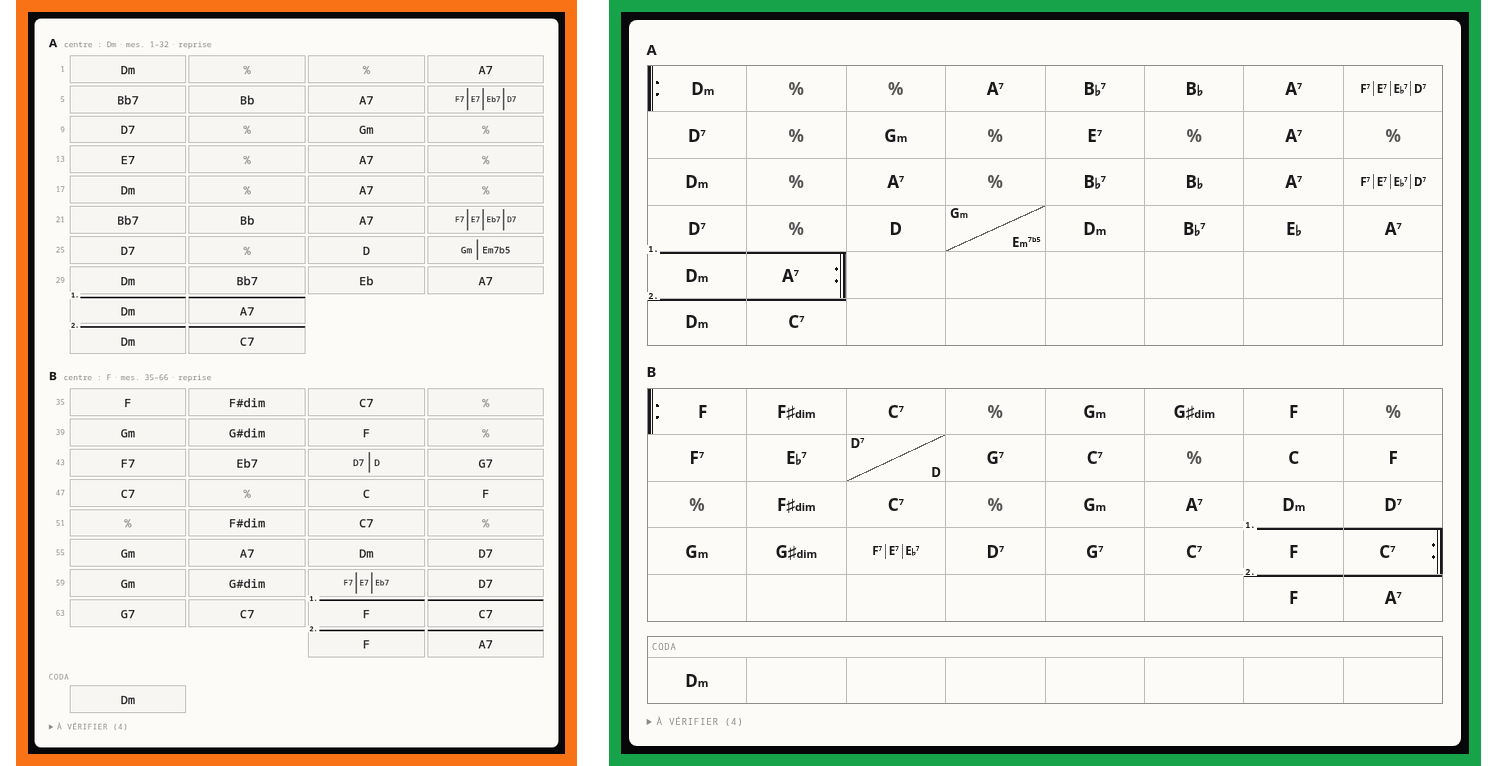
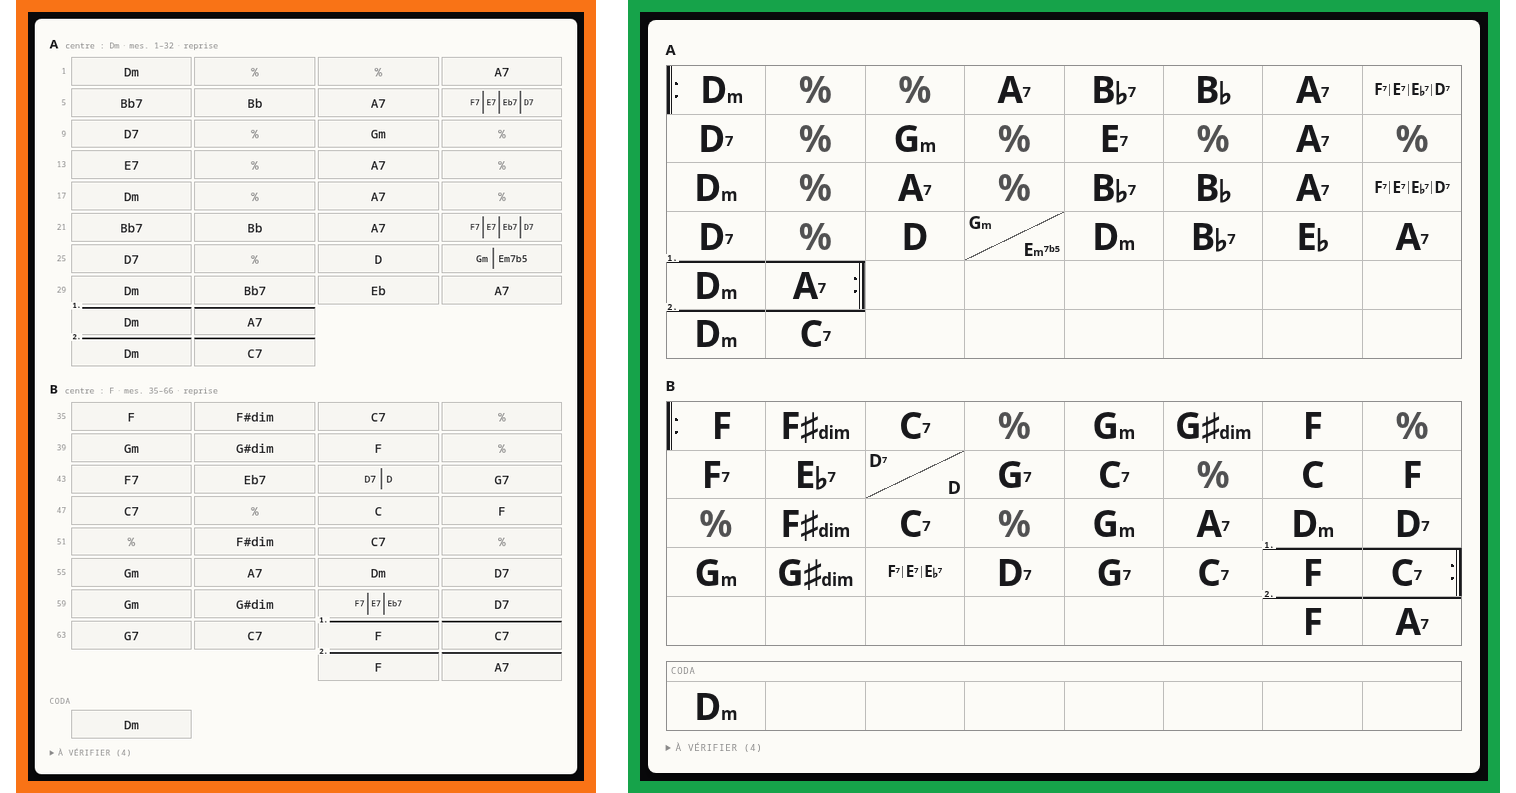
Agrandit les chiffrages jusqu'à remplir les cases
Les accords occupaient à peine la moitié de leur case. La fondamentale
passe de 1,16 à 2,5 em, soit plus du double, et la grille reste malgré
tout plus courte qu'avant la refonte (753 px contre 891 sur Benzinho).

Le corps est désormais fixé par catégorie de case plutôt que par un seul
`font-size` hérité, car chacune bute sur une contrainte différente :

- accord seul : c'est la largeur qui borne, et seulement pour les
  chiffrages les plus longs (« D♯dim »). La qualité passe de 0,59 à 0,46
  fois la fondamentale — proportion de la grille manuscrite, qui rend au
  passage la largeur nécessaire pour grossir la lettre ;
- mesure partagée : c'est le triangle qui borne. Les deux chiffrages
  gagnent tout de même 35 %, mais restent forcément plus contenus — d'où
  un corps propre, et non plus seulement celui de la case, pour que
  l'accord seul puisse grandir sans les entraîner ;
- trois ou quatre accords sur une mesure : la case en gardait près des
  trois quarts de la hauteur inutilisés, la largeur seule bornant. +31 %.

Deux défauts mis au jour en vérifiant les 19 grilles plutôt que deux :

- `.ch:last-child` ne désignait pas le second accord d'une mesure
  partagée dès que la case portait un libellé de fin (« 1. ») ou un
  masque : l'accord perdait son coin et traversait la coupe. Le rang dans
  la fratrie est le seul repère stable ;
- en plein écran, le zoom grossissait le texte sans grossir la carte :
[…]

diff --git a/web/src/style.css b/web/src/style.css
@@ -132,9 +132,14 @@ body {
   container-type: inline-size;
 }
 
+/* En plein écran, le zoom agrandit la carte autant que le texte : sans cela,
+   les cases gardaient leur largeur pendant que les chiffrages grossissaient, et
+   les plus longs finissaient par en déborder. La carte s'arrête à la largeur
+   disponible, où la requête de conteneur prend le relais en repliant les
+   colonnes. */
 .fp-slot .grille-surface {
   font-size: calc(0.92rem * var(--fp-zoom, 1));
-  max-width: min(52rem, 100%);
+  max-width: min(calc(52rem * var(--fp-zoom, 1)), 100%);
 }
 @media (max-width: 400px) {
   .grille-surface {
@@ -193,7 +198,7 @@ body {
    et c'est lui qui fait le filet. */
 .chord-cell {
   position: relative;
-  min-height: 3.1em;
+  min-height: 3.25em;
   display: flex;
   align-items: center;
   justify-content: center;
@@ -213,20 +218,40 @@ body {
    qualité la suit en petit sur la ligne, le chiffre monte en exposant. C'est
    ce qui rend un accord lisible d'un coup d'œil sans qu'il prenne la place de
    deux — d'où l'abandon de la fonte à chasse fixe des cases, qui donnait au
-   `m` la même avance qu'au `B` et posait les exposants de travers. */
+   `m` la même avance qu'au `B` et posait les exposants de travers.
+
+   La fondamentale est poussée aussi loin que la case le permet : c'est elle
+   qu'on lit en jouant, souvent de loin et d'un seul coup d'œil, et la place
+   perdue autour ne sert à rien. Les corps réduits de la qualité et de
+   l'exposant suivent, pour que l'accord reste un seul mot. */
 .chord-cell .rt {
   font-style: normal;
-  font-size: 1.16em;
+  font-size: 2.5em;
+  letter-spacing: -0.01em;
 }
 .chord-cell .qa {
   font-style: normal;
-  font-size: 0.74em;
+  font-size: 1.15em;
 }
 .chord-cell .sp {
   font-style: normal;
-  font-size: 0.62em;
+  font-size: 1em;
   vertical-align: super;
   line-height: 0;
+}
+
+/* Une mesure partagée porte deux chiffrages dans la hauteur d'une seule case,
+   chacun tenant dans son triangle : le corps y est nécessairement plus
+   contenu. Il est fixé ici, et non par le seul `font-size` de la case, pour
+   que l'accord seul puisse grandir sans l'entraîner. */
+.chord-cell.multi .rt {
+  font-size: 1.85em;
+}
+.chord-cell.multi .qa {
+  font-size: 1.1em;
+}
+.chord-cell.multi .sp {
+  font-size: 0.95em;
 }
 
 /* Mesure partagée entre deux accords : la case est coupée en diagonale, le
@@ -243,8 +268,8 @@ body {
      des deux chiffrages et les coins n'iraient nulle part. */
   grid-template-columns: 1fr;
   grid-template-rows: 1fr 1fr;
-  font-size: 0.78em;
-  min-height: 3.97em; /* 0.78 × 3.97 ≈ les 3.1em d'une case ordinaire */
+  font-size: 0.66em;
+  min-height: 4.92em; /* 0.66 × 4.92 ≈ les 3.25em d'une case ordinaire */
   padding: 0.15em 0.35em;
   background-image: linear-gradient(
     to bottom right,
@@ -254,10 +279,13 @@ body {
     transparent calc(50% + 0.6px)
   );
 }
-.chord-cell.multi:not(.multi-3) .ch:first-child {
+/* Repérés par leur rang et non par `:first-child` / `:last-child` : la case
+   peut encore recevoir un libellé de fin (« 1. ») et un masque, qui prendraient
+   la place de dernier enfant et décrocheraient le second accord de son coin. */
+.chord-cell.multi:not(.multi-3) .ch:nth-child(1) {
   place-self: start start;
 }
-.chord-cell.multi:not(.multi-3) .ch:last-child {
+.chord-cell.multi:not(.multi-3) .ch:nth-child(2) {
   place-self: end end;
 }
 
@@ -265,8 +293,8 @@ body {
    diagonale n'a plus de sens : on revient à la file horizontale, séparée par
    des filets, au corps réduit. */
 .chord-cell.multi.multi-3 {
-  font-size: 0.68em;
-  min-height: 4.56em; /* idem : 0.68 × 4.56 ≈ 3.1em */
+  font-size: 0.56em;
+  min-height: 5.8em; /* idem : 0.56 × 5.8 ≈ 3.25em */
   gap: 0.28em;
 }
 /* Filet court et centré : sur une case haute, un trait courant d'un bord à
@@ -281,7 +309,7 @@ body {
   color: rgb(var(--mask-ink) / 0.75);
 }
 .chord-cell.simile .ch {
-  font-size: 1.16em;
+  font-size: 2.5em;
 }
 /* Bourrage de fin de ligne : une case vide du quadrillage, comme sur une
    grille écrite à la main — et non un trou dans le tracé. */
